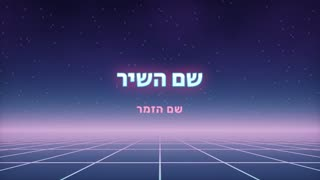
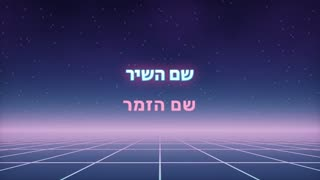
Title card: song and singer the same size at 100%, each up to 200%
Claude-Session: https://claude.ai/code/session_01Pd6jjE5Tj5cRr1KnLLFndW

Changed region(s): [[0.3438, 0.3611, 0.6562, 0.5278], [0.375, 0.5556, 0.625, 0.6389]]

diff --git a/web/src/i18n/he.ts b/web/src/i18n/he.ts
@@ -336,7 +336,7 @@ export const he = {
   'export.opening.title': 'פתיח, כותרת ומעבר',
   'export.opening.artistSize': 'גודל שם הזמר',
   'export.opening.songSize': 'גודל שם השיר',
-  'export.opening.sizeHint': '100% הוא הגודל הרגיל של העיצוב. שם ארוך לא יגדל מעבר לרוחב המסך.',
+  'export.opening.sizeHint': 'ב-100% שתי השורות באותו גודל. הגדילו או הקטינו כל אחת עד 200%. שם ארוך לא יגדל מעבר לרוחב המסך.',
   'export.opening.sizesLabel': 'שיר {song}% · זמר {artist}%',
   'export.opening.song': 'שם השיר',
   'export.opening.artist': 'שם הזמר',

diff --git a/web/src/i18n/en.ts b/web/src/i18n/en.ts
@@ -338,7 +338,7 @@ export const en: Record<MessageKey, string> = {
   'export.opening.title': 'Opening, title and transition',
   'export.opening.artistSize': 'Singer size',
   'export.opening.songSize': 'Song name size',
-  'export.opening.sizeHint': '100% is the design\'s normal size. A long name never grows past the screen width.',
+  'export.opening.sizeHint': 'At 100% both lines are the same size. Make either one bigger or smaller, up to 200%. A long name never grows past the screen width.',
   'export.opening.sizesLabel': 'song {song}% · singer {artist}%',
   'export.opening.song': 'Song name',
   'export.opening.artist': 'Singer',

diff --git a/web/src/lib/opening.ts b/web/src/lib/opening.ts
@@ -54,7 +54,7 @@ export const openingProblem = (c: OpeningChoice, hasOwnIntro = true) =>
       ? 'export.opening.needOwnIntro'
       : null
 
-export const TITLE_SIZE = { min: 50, max: 160, step: 10 } as const
+export const TITLE_SIZE = { min: 50, max: 200, step: 10 } as const
 const titleSize = (v: unknown) =>
   typeof v === 'number' && Number.isFinite(v) ? Math.min(TITLE_SIZE.max, Math.max(TITLE_SIZE.min, Math.round(v / 10) * 10)) : 100
 

diff --git a/server/karaokesync/exports/opening.py b/server/karaokesync/exports/opening.py
@@ -105,12 +105,16 @@ TitleThemeId = Literal["brand", "gold", "neon", "stage", "space", "sunset", "min
 NAME_FONT, SONG_FONT = THEMES["brand"].name_font, THEMES["brand"].song_font
 TITLE_DELAY_MS = 900     # the words come in once the transition has mostly shown the card
 
+TITLE_LINE_SIZE = 0.15   # each line's height at 100%, of the screen's shorter side
+TITLE_SIZE_MAX = 200
+
+
 class TitleCard(BaseModel):
     song: str = Field(min_length=1, max_length=120)
     artist: str = Field(default="", max_length=120)
     # How big the letters are, in percent of the design's own size (the user's choice).
-    artist_size: int = Field(default=100, ge=50, le=160)
-    song_size: int = Field(default=100, ge=50, le=160)
+    artist_size: int = Field(default=100, ge=50, le=TITLE_SIZE_MAX)
+    song_size: int = Field(default=100, ge=50, le=TITLE_SIZE_MAX)
 
     @field_validator("song", "artist")
     @classmethod
@@ -209,17 +213,19 @@ def title_ass(card: TitleCard, canvas: Canvas, name_font: TextMeasurer, song_fon
               language: str | None, theme: TitleTheme | None = None) -> str:
     """The title card's subtitles, in the intro's colours: the song big, in
     white 3D letters with a purple depth and a soft purple glow, and just under
-    it the singer, smaller, in light blue. A light sweeps across the song's name. Times are 0..TITLE_MS.
+    it the singer, in light blue (the same size at 100%; the user sets the sizes). A light sweeps across the song's name. Times are 0..TITLE_MS.
     `theme` changes the colours, the depth and the glow (default: the intro's)."""
     t = theme or THEMES["brand"]
     W, H = canvas.width, canvas.height
     unit = min(W, H) / 720
     artist, song = escape_text(card.artist), escape_text(card.song)
     big, small = song, artist                         # the song on top, the singer under it
-    base = _fit(name_font, big, min(W, H) * 0.19, W * 0.86)     # the design's size, fitted to the width
-    fs = _fit(name_font, big, min(W, H) * 0.19 * card.song_size / 100, W * 0.86)  # bigger only while it still fits
-    sfs = _fit(song_font, small, base * 0.5 * card.artist_size / 100, W * 0.84) if small else 0
-    gap = fs * 0.14                                   # a little space between the two lines
+    # At 100% both lines are the same size; the user's percentages make one bigger than the other.
+    # A line grows only while it still fits the width of the screen.
+    base = min(W, H) * TITLE_LINE_SIZE
+    fs = _fit(name_font, big, base * card.song_size / 100, W * 0.86)
+    sfs = _fit(song_font, small, base * card.artist_size / 100, W * 0.86) if small else 0
+    gap = max(fs, sfs) * 0.14                         # a little space between the two lines
     block = fs + (gap + sfs if small else 0)
     cy = H * 0.5 - block / 2 + fs / 2                 # the two lines together are centred
     sy = cy + fs / 2 + gap + sfs / 2

diff --git a/server/tests/test_opening.py b/server/tests/test_opening.py
@@ -50,7 +50,7 @@ def test_title_card_subtitles():
     assert len(song_lines) == 1
     assert "\u200f" in ass   # right-to-left mark for Hebrew
     size = {k: float(v) for k, v in re.findall(r"Style: ([NS]),[^,]+,([\d.]+)", ass)}
-    assert size["S"] < size["N"] * 0.6
+    assert size["S"] == size["N"]   # the same size until the user chooses otherwise
     y = lambda line: float(re.search(r"\\pos\([\d.]+,([\d.]+)\)", line).group(1))
     assert y(song_lines[0]) > y(name_lines[-1])
     # no gold any more: the colours of the intro
@@ -70,15 +70,17 @@ def test_the_user_chooses_the_letter_sizes():
     m = measurer_for(str(SYSTEM_FONT))
     sizes = lambda card: {k: float(v) for k, v in re.findall(r"Style: ([NS]),[^,]+,([\d.]+)", op.title_ass(card, Canvas(1920, 1080), m, m, "he"))}
     normal = sizes(op.TitleCard(song="שיר", artist="זמר"))
-    chosen = sizes(op.TitleCard(song="שיר", artist="זמר", song_size=70, artist_size=150))
+    assert normal["N"] == normal["S"] == pytest.approx(1080 * op.TITLE_LINE_SIZE)
+    chosen = sizes(op.TitleCard(song="שיר", artist="זמר", song_size=70, artist_size=200))
     assert chosen["N"] == pytest.approx(normal["N"] * 0.7, rel=0.01)    # the song, on top
-    assert chosen["S"] == pytest.approx(normal["S"] * 1.5, rel=0.01)    # the singer does not follow the song
+    assert chosen["S"] == pytest.approx(normal["S"] * 2, rel=0.01)      # the singer, now the bigger one
     # a long name still never grows past the screen
     long = "מילה " * 8
-    huge = sizes(op.TitleCard(song=long, artist="זמר", song_size=160))
-    assert m.width(long.strip(), huge["N"]) <= 1920 * 0.87
+    huge = sizes(op.TitleCard(song=long, artist=long, song_size=200, artist_size=200))
+    assert m.width(long.strip(), huge["N"]) <= 1920 * 0.87 and m.width(long.strip(), huge["S"]) <= 1920 * 0.87
+    assert op.TitleCard(song="שיר", artist_size=200).artist_size == 200
     with pytest.raises(ValidationError):
-        op.TitleCard(song="שיר", artist_size=300)
+        op.TitleCard(song="שיר", artist_size=201)
 
 
 def test_missing_clips_are_reported(monkeypatch, tmp_path):

diff --git a/server/karaokesync/api/exports.py b/server/karaokesync/api/exports.py
@@ -59,7 +59,7 @@ class ExportRequest(BaseModel):
 # what they report in the `workers` table; see worker.runner.WORKER_VERSION).
 MIN_OPENING_WORKER = "2026-11-14.2"   # the intro, transitions, previews
 MIN_OWN_INTRO_WORKER = "2026-11-15.2"  # the user's own opening clip
-MIN_TITLE_WORKER = "2026-11-15.4"     # the title card as it is now: song on top, singer under it, the user's sizes
+MIN_TITLE_WORKER = "2026-11-15.5"     # the title card as it is now: song on top, singer under it, the user's sizes
 
 
 def _worker_too_old(sb: SupabaseClient, needed: str) -> bool:

diff --git a/server/karaokesync/worker/runner.py b/server/karaokesync/worker/runner.py
@@ -35,7 +35,7 @@ CLEANUP_INTERVAL_SECONDS = 3600
 # Shown when the worker starts, to tell an up-to-date worker from an old copy.
 # The part before the space is compared by the API: features that need a newer
 # worker (the video opening, previews) check it before queueing a job.
-WORKER_VERSION = "2026-11-15.4 (song on top)"
+WORKER_VERSION = "2026-11-15.5 (equal title lines)"
 
 
 class Heartbeat:
